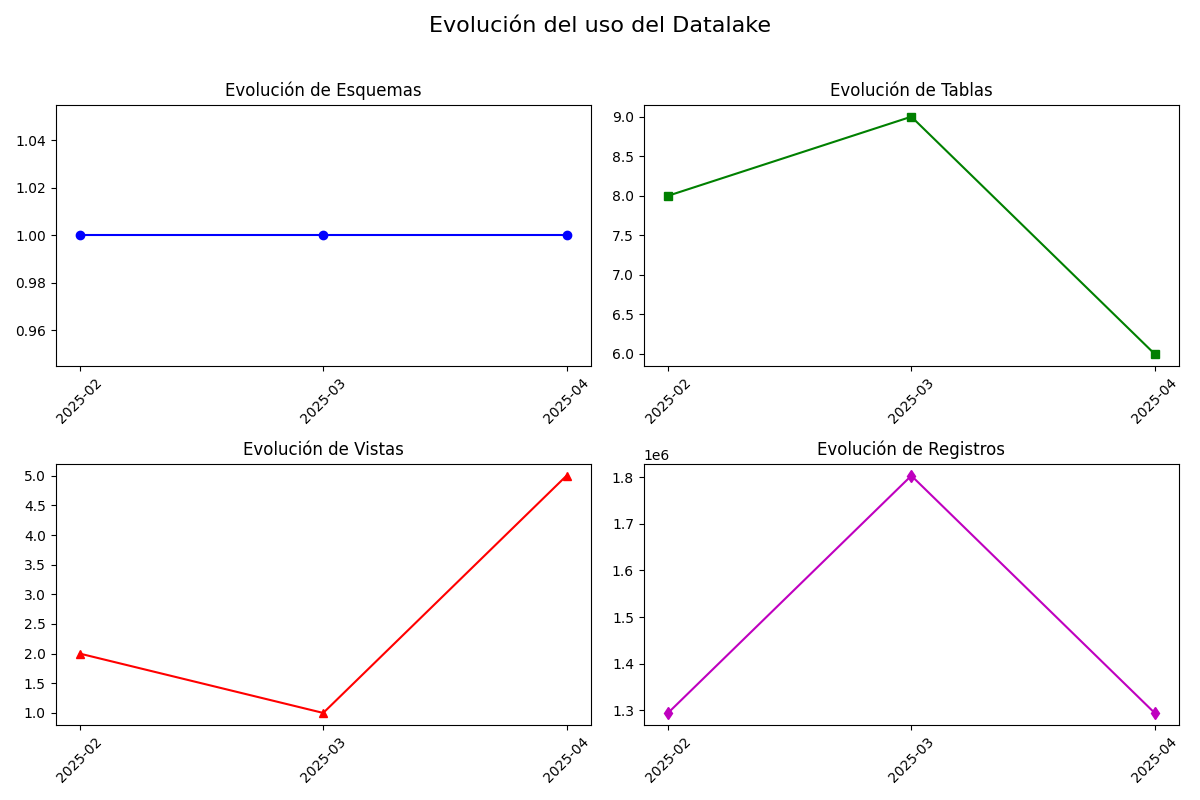
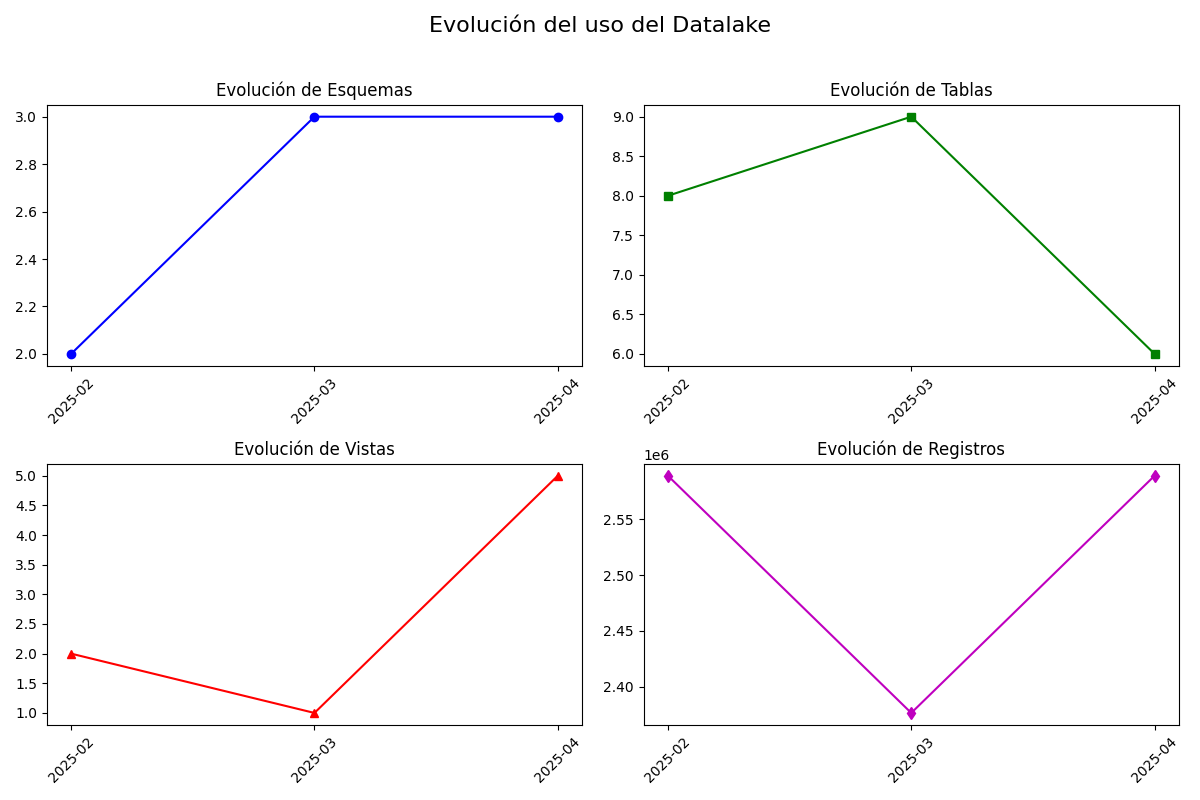
Add files via upload

diff --git a/imag.py b/imag.py
@@ -1,7 +1,7 @@
 import pandas as pd
 import matplotlib.pyplot as plt
 
-# Código realizado usando un csv llamado contenido_bd_2 inventado, el real es contenido_bd
+# Datos de contenido_bd_2 inventados para comprobar funcionamiento
 def procesar_datos(csv_file):
     # cargo el CSV y proceso los datos para obtener valores máximos por mes.
     df = pd.read_csv(csv_file, sep=';', encoding='utf-8')
@@ -41,7 +41,52 @@ def generar_graficos(resumen):
     plt.savefig('evolucion_datalake_2.png')
     plt.show()
 
+def generar_graficos_por_esquema(csv_file):
+    # Cargo el CSV y agrupo los datos por mes y esquema
+    df = pd.read_csv(csv_file, sep=';', encoding='utf-8')
+    df['fecha_extraccion'] = pd.to_datetime(df['fecha_extraccion'])
+    df['mes'] = df['fecha_extraccion'].dt.to_period('M')
+    resumen_esquema = df.groupby(['mes', 'esquema']).agg(
+        tablas=('nombre', lambda x: x[df['tipo'] == 'table'].nunique()),
+        vistas=('nombre', lambda x: x[df['tipo'].str.contains('view')].nunique()),
+        registros=('registros', 'sum')
+    ).reset_index()
+    resumen_esquema.to_csv('resumen_datalake_por_esquema_2.csv', sep=';', index=False, encoding='utf-8')
+    fig, axes = plt.subplots(2, 2, figsize=(12, 8))
+    fig.suptitle('Evolución del uso del Datalake por Esquema', fontsize=16)
+    # Grafico los esquemas totales (igual que antes)
+    resumen_total = df.groupby('mes').agg(esquemas=('esquema', 'nunique')).reset_index()
+    resumen_total['mes'] = resumen_total['mes'].astype(str)
+    axes[0, 0].plot(resumen_total['mes'], resumen_total['esquemas'], marker='o', linestyle='-', color='b')
+    axes[0, 0].set_title('Evolución de Esquemas')
+    axes[0, 0].set_xticklabels(resumen_total['mes'], rotation=45)
+    # Grafico la evolución de tablas por esquema
+    for esquema in resumen_esquema['esquema'].unique():
+        datos_esquema = resumen_esquema[resumen_esquema['esquema'] == esquema]
+        axes[0, 1].plot(datos_esquema['mes'].astype(str), datos_esquema['tablas'], marker='s', linestyle='-', label=esquema)
+    axes[0, 1].set_title('Evolución de Tablas por Esquema')
+    axes[0, 1].set_xticklabels(resumen_total['mes'], rotation=45)
+    axes[0, 1].legend()
+    # Grafico la evolución de vistas por esquema
+    for esquema in resumen_esquema['esquema'].unique():
+        datos_esquema = resumen_esquema[resumen_esquema['esquema'] == esquema]
+        axes[1, 0].plot(datos_esquema['mes'].astype(str), datos_esquema['vistas'], marker='^', linestyle='-', label=esquema)
+    axes[1, 0].set_title('Evolución de Vistas por Esquema')
+    axes[1, 0].set_xticklabels(resumen_total['mes'], rotation=45)
+    axes[1, 0].legend()
+    # Grafico la evolución de registros por esquema
+    for esquema in resumen_esquema['esquema'].unique():
+        datos_esquema = resumen_esquema[resumen_esquema['esquema'] == esquema]
+        axes[1, 1].plot(datos_esquema['mes'].astype(str), datos_esquema['registros'], marker='d', linestyle='-', label=esquema)
+    axes[1, 1].set_title('Evolución de Registros por Esquema')
+    axes[1, 1].set_xticklabels(resumen_total['mes'], rotation=45)
+    axes[1, 1].legend()
+    plt.tight_layout(rect=[0, 0, 1, 0.96])
+    plt.savefig('evolucion_datalake_por_esquema.png')
+    plt.show()
+
 if __name__ == '__main__':
     archivo_csv = 'contenido_bd_2.csv'
     datos_procesados = procesar_datos(archivo_csv)
     generar_graficos(datos_procesados)
+    generar_graficos_por_esquema(archivo_csv)
